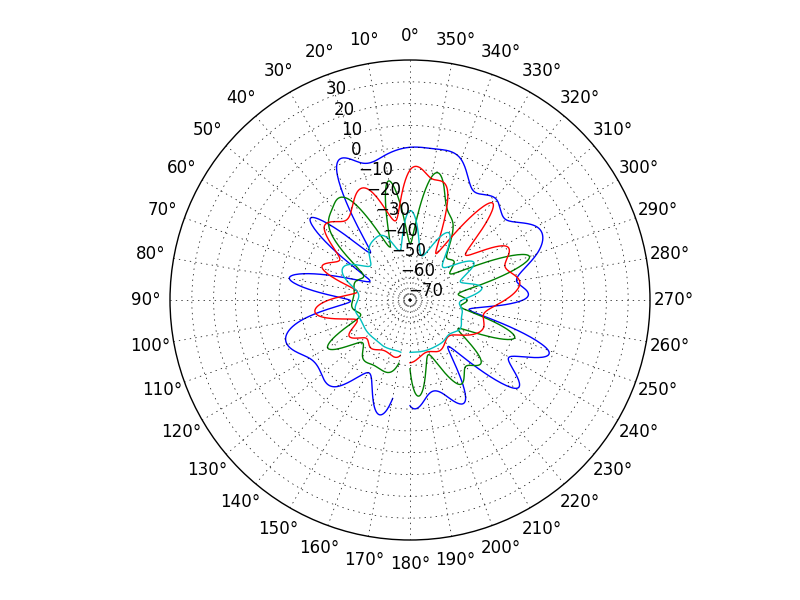
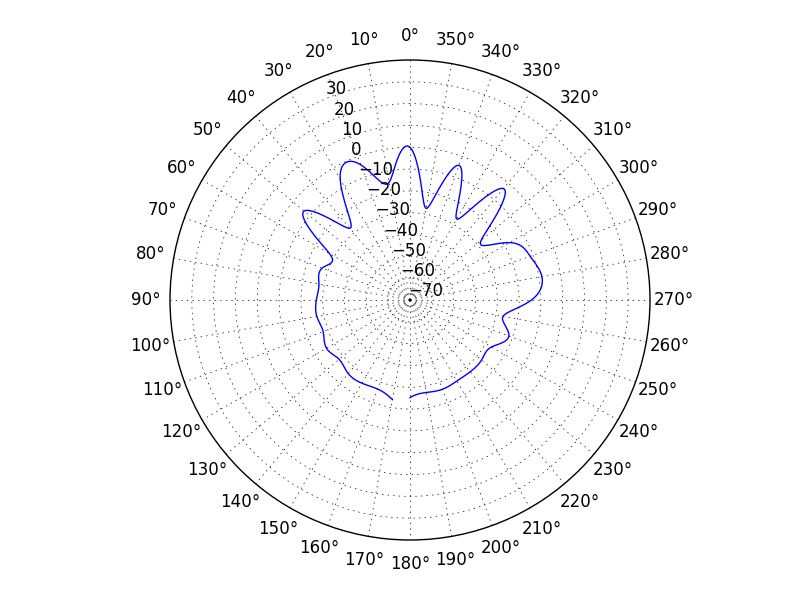
again

Changed region(s): [[0.3438, 0.24, 0.6875, 0.69], [0.375, 0.6, 0.4062, 0.63], [0.3438, 0.54, 0.375, 0.57]]

diff --git a/analysis/main.py b/analysis/main.py
@@ -6,9 +6,9 @@ from scikits.audiolab import wavread
 
 from segment import band_powers
 
-SAMPLE_DURATIONS = [0.015, 0.05]
-FREQS = [25000, 30000, 35000, 40000]
-PULSE_DURATION = 0.05
+SAMPLE_DURATIONS = [d * 0.001 for d in xrange(10, 65)]
+FREQS = [25000, 30000, 35000, 40000, 45000]
+PULSE_DURATION = 0.06
 SWEEP_DURATION = 0.2
 
 def normalize_angle(angle):
@@ -100,13 +100,13 @@ def analysis(references, sample_duration):
 	db_azimuths_freqs = normalize(azimuth_powers)
 	plot_gain_pattern(
 		azimuth_powers,
-		db_azimuths_freqs, '../output/uh-maybe-%s.png' % (sample_duration)
+		db_azimuths_freqs, '../output/doot-%s.png' % (sample_duration)
 	)
 
 if __name__ == "__main__":
 	references = {
 		"../samples/2017-7-12/azimuth-2.csv": "../samples/2017-7-12/azimuth-2/DR0000_%s.wav",
-		"../samples/2017-7-12/azimuth-1.csv": "../samples/2017-7-12/azimuth-1/DR0000_%s.wav",
+		"../samples/2017-7-12/azimuth-1-mini.csv": "../samples/2017-7-12/azimuth-1/DR0000_%s.wav",
 	}
 	for d in SAMPLE_DURATIONS:
 		analysis(references, d)
